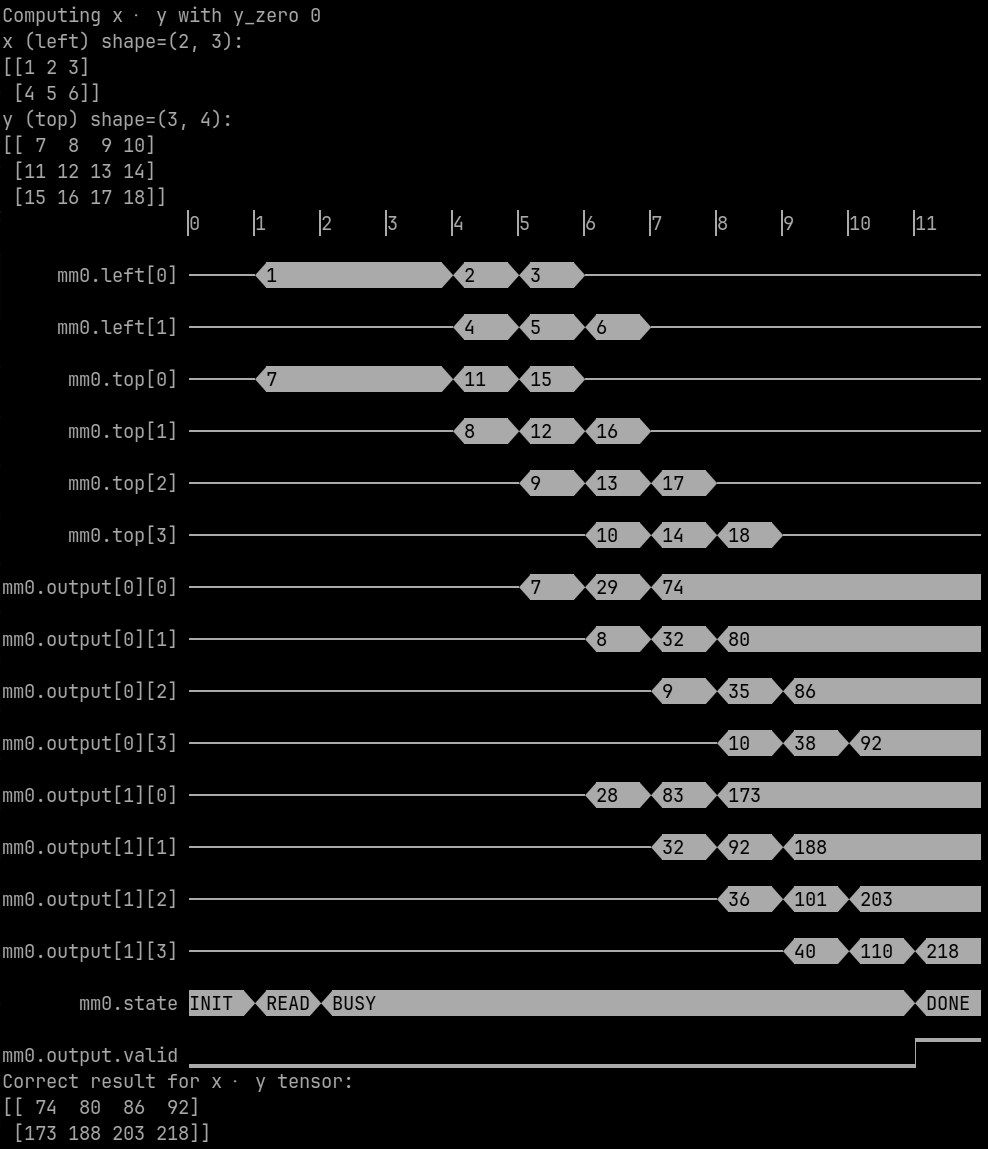
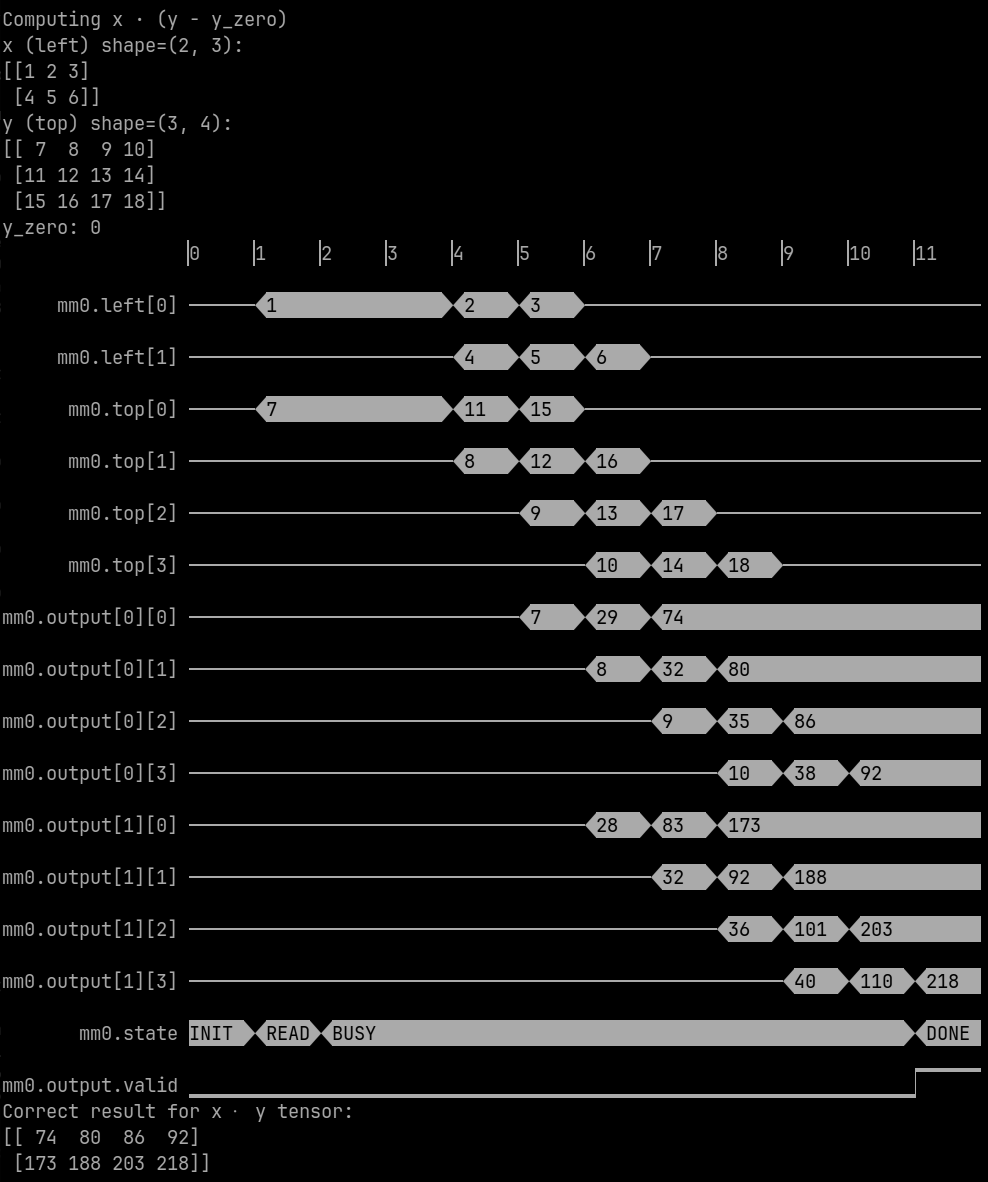
Clean up ``pyrtl_matrix.py`` demo script:
* Move some inline functions to top level.
* Simplify bracket counting logic in `_render_trace`.
* Add more comments.

diff --git a/pyrtl_matrix.py b/pyrtl_matrix.py
@@ -21,62 +21,111 @@ def _verify_tensor(name: str, expected: np.ndarray, actual: np.ndarray) -> bool:
         return False
 
 
+def _make_np_matrix(shape: tuple[int, int], start: int) -> np.ndarray:
+    """Return an integer matrix with the specified shape.
+
+    The matrix will be filled with increasing integers starting from ``start``.
+
+    """
+    num_rows, num_columns = shape
+    array = np.array(list(range(start, start + num_rows * num_columns)))
+    return np.reshape(array, newshape=shape)
+
+
+def _render_trace(sim: pyrtl.Simulation, prefixes: str):
+    """Only display traces with the maximum number of brackets.
+
+    For example, this will display ``output[1][2]``, and skip ``output[1]`` and
+    ``output``.
+
+    """
+
+    def count_brackets(name: str) -> int:
+        """Return the number of opening brackets in ``name``."""
+        return name.count("[")
+
+    def get_prefix(name: str) -> str:
+        """Return the part of ``name`` before the first opening bracket."""
+        return name.split("[")[0]
+
+    # Map from ``prefix`` to its maximum bracket count. If ``prefix`` is a matrix, this
+    # effectively returns the number of dimensions in the matrix.
+    max_bracket_count = {}
+    for full_name in sorted(sim.tracer.trace.keys()):
+        current_prefix = get_prefix(full_name)
+        current_count = count_brackets(full_name)
+
+        last_count = max_bracket_count.get(current_prefix, 0)
+        max_bracket_count[current_prefix] = max(current_count, last_count)
+
+    # Collect trace names that start with one of the desired ``prefixes``, and have the
+    # maximum number of opening brackets for that prefix.
+    trace_list = []
+    for prefix in prefixes:
+        for name in sorted(sim.tracer.trace.keys()):
+            if (
+                name.startswith(prefix)
+                and count_brackets(name) == max_bracket_count[get_prefix(name)]
+            ):
+                trace_list.append(name)
+
+    sim.tracer.render_trace(
+        trace_list=trace_list,
+        symbol_len=4,
+        repr_func=pyrtl.val_to_signed_integer,
+        repr_per_name={
+            "mm0.state": pyrtl.enum_name(pyrtl_matrix.State),
+            "mm0.counter": int,
+        },
+    )
+
+
 def main():
-    """Simulate matrix multiplication and elementwise addition (x ⋅ y + a).
+    """Simulate matrix multiplication and elementwise addition (x · (y - y_zero) + a).
 
     Do the calculations with numpy and PyRTL, and verify that the results are the same.
 
     """
-    parser = argparse.ArgumentParser(prog="systolic.py")
+    parser = argparse.ArgumentParser(prog="pyrtl_matrix.py")
     parser.add_argument("--x_shape", type=int, nargs=2, default=(2, 3))
     parser.add_argument("--x_start", type=int, default=1)
     parser.add_argument("--y_shape", type=int, default=(3, 4))
     parser.add_argument("--y_start", type=int, default=7)
+    parser.add_argument("--y_zero", type=int, default=0)
     parser.add_argument("--a_shape", type=int, nargs=2, default=(2, 4))
     parser.add_argument("--a_start", type=int, default=1)
     args = parser.parse_args()
 
-    def make_np_matrix(shape: tuple[int, int], start: int) -> np.ndarray:
-        """Return an integer matrix with the specified shape.
-
-        The matrix will be filled with increasing integers starting from ``start``.
-
-        """
-        num_rows, num_columns = shape
-        array = np.array(list(range(start, start + num_rows * num_columns)))
-        return np.reshape(array, newshape=shape)
-
-    x = make_np_matrix(args.x_shape, start=args.x_start)
-    y = make_np_matrix(args.y_shape, start=args.y_start)
-    a = make_np_matrix(args.a_shape, start=args.a_start)
+    # Create input matrices.
+    x = _make_np_matrix(args.x_shape, start=args.x_start)
+    y = _make_np_matrix(args.y_shape, start=args.y_start)
+    y_zero = args.y_zero
+    a = _make_np_matrix(args.a_shape, start=args.a_start)
 
     assert x.shape[1] == y.shape[0]
 
-    y_zero = 0
-    expected_xy = x @ (y - y_zero)
-    assert expected_xy.shape == a.shape
-
-    input_bitwidth = max(
-        [pyrtl_matrix.minimum_bitwidth(a) for a in [x, y, expected_xy]]
-    )
-    accumulator_bitwidth = 32
-
+    # Create ``matrix_y``, a ``WireMatrix2D`` whose values are stored in ``y_memblock``.
+    # The actual values for ``y_memblock`` will be provided at simulation time, via
+    # ``memory_value_map``.
+    input_bitwidth = max([pyrtl_matrix.minimum_bitwidth(a) for a in [x, y]])
     done_cycle = pyrtl_matrix.num_systolic_array_cycles(x.shape, y.shape) - 1
     counter_bitwidth = pyrtl.infer_val_and_bitwidth(done_cycle).bitwidth
-
     _, num_columns = y.shape
     y_memblock = pyrtl.MemBlock(
         addrwidth=counter_bitwidth, bitwidth=input_bitwidth * num_columns
     )
-    y_valid = pyrtl.Input(name="y_valid", bitwidth=1)
     matrix_y = WireMatrix2D(
         values=y_memblock,
         shape=y.shape,
         bitwidth=input_bitwidth,
         name="y",
-        valid=y_valid,
+        valid=True,
     )
 
+    # Build the systolic array hardware for matrix multiplication, and generate
+    # pyrtl.Outputs for the array's output. The outputs will have names like
+    # ``mm0.output[0][0]``.
+    accumulator_bitwidth = 32
     matrix_xy = pyrtl_matrix.make_systolic_array(
         name="mm0",
         a=x,
@@ -86,6 +135,10 @@ def main():
         accumulator_bitwidth=accumulator_bitwidth,
     )
     matrix_xy.make_outputs()
+
+    # Build the elementwise adder. It consumes the systolic array's output, and adds
+    # ``matrix_a`` to it, which is an array of ``pyrtl.Const``s. Generate pyrtl.Outputs
+    # for the adder's output. The outputs will have names like ``add0.output[0][0]``.
     matrix_a = WireMatrix2D(values=a, bitwidth=input_bitwidth, name="a", valid=True)
     matrix_xya = pyrtl_matrix.make_elementwise_add(
         name="add0", a=matrix_xy, b=matrix_a, output_bitwidth=accumulator_bitwidth
@@ -93,76 +146,43 @@ def main():
     matrix_xya.make_outputs()
     matrix_xya.ready <<= True
 
-    # Simulate the systolic array by providing inputs for each cycle.
+    # Provide the initial data for ``y_memblock``.
     memblock_data = pyrtl_matrix.make_input_memblock_data(
         y.transpose(), input_bitwidth, counter_bitwidth
     )
     memblock_data = dict(enumerate(memblock_data))
 
+    # Simulate the systolic array and elementwise adder until the adder's output is
+    # ``valid``.
     sim = pyrtl.Simulation(memory_value_map={y_memblock: memblock_data})
     while not sim.inspect("add0.output.valid"):
-        sim.step(provided_inputs={"y_valid": True})
+        sim.step()
 
-    # Simulation complete, print the waveform.
-    def render_trace(prefixes: str):
-        # Only show traces with the maximum number of brackets. This will display
-        # ``output[1][2]``, and skip ``output[1]`` and ``output``.
-        def count_brackets(name):
-            return name.count("[")
-
-        def strip_brackets(name):
-            return name.split("[")[0]
-
-        trace_counts = [
-            (strip_brackets(name), count_brackets(name))
-            for name in sorted(sim.tracer.trace.keys())
-        ]
-        max_brackets = {}
-        for name, count in trace_counts:
-            if name not in max_brackets:
-                max_brackets[name] = count
-            else:
-                max_brackets[name] = max(count, max_brackets[name])
-
-        trace_list = []
-        for prefix in prefixes:
-            matches = []
-            for name in sorted(sim.tracer.trace.keys()):
-                if (
-                    name.startswith(prefix)
-                    and count_brackets(name) == max_brackets[strip_brackets(name)]
-                ):
-                    matches.append(name)
-            trace_list.extend(matches)
-
-        sim.tracer.render_trace(
-            trace_list=trace_list,
-            symbol_len=4,
-            repr_func=pyrtl.val_to_signed_integer,
-            repr_per_name={
-                "mm0.state": pyrtl.enum_name(pyrtl_matrix.State),
-                "mm1.state": pyrtl.enum_name(pyrtl_matrix.State),
-                "mm0.counter": int,
-            },
-        )
-
-    print("Computing x ⋅ y with y_zero", y_zero)
+    # Print the waveform.
+    print("Computing x · (y - y_zero)")
     print(f"x (left) shape={x.shape}:\n{x}")
     print(f"y (top) shape={y.shape}:\n{y}")
-    render_trace(
+    print("y_zero:", y_zero)
+    _render_trace(
+        sim=sim,
         prefixes=[
             "mm0.left",
             "mm0.top",
             "mm0.output[",
             "mm0.state",
             "mm0.output.valid",
-        ]
+        ],
     )
 
+    # Calculate the expected value for x ⋅ (y - y_zero) with NumPy.
+    expected_xy = x @ (y - y_zero)
+    assert expected_xy.shape == a.shape
+
+    # Verify that the matrix multiplication output is correct.
     actual_xy = matrix_xy.inspect(sim=sim)
     _verify_tensor("x ⋅ y", expected_xy, actual_xy)
 
-    print("\nComputing x ⋅ y + a")
+    print("\nComputing x · (y - y_zero) + a")
     print(f"a shape={a.shape}:\n{a}\n")
 
     expected_xya = expected_xy + a

diff --git a/pyrtlnet/pyrtl_matrix.py b/pyrtlnet/pyrtl_matrix.py
@@ -2,7 +2,7 @@
 
 The operations in this module all use :class:`.WireMatrix2D` as their input and output,
 so they can be composed. See the parent directory's ``pyrtl_matrix.py`` for an example
-that computes ``x ⋅ y + a``.
+that computes ``x · (y - y_zero) + a``.
 
 WARNING: These implementations may not be completely general. They have only been tested
 in the context of dense neural networks.
@@ -371,15 +371,29 @@ def make_systolic_array(
                                                                                ┌────
         mm0.output.valid ──────────────────────────────────────────────────────┘
 
-    The systolic array's outputs can be seen on the ``mm0.output`` signals. For example,
+    The ``mm0.output`` signals show the systolic array's output matrix. For example,
     ``mm0.output[0][0]`` shows the output matrix's final top left value is ``74``, which
-    is ``1 * 7 + 2 * 11 + 3 * 15``. The result of multiplying matrices ``a` and ``b``
-    is::
+    is ``1 * 7 + 2 * 11 + 3 * 15``.
+
+    The trace shows how the systolic array multiplies and accumulates to execute this
+    matrix multiplication over time. For example, the trace for ``mm0.output[0][0]``
+    shows::
+
+         7 in cycle 5, which is 1 * 7.
+        29 in cycle 6, which is 1 * 7 + 2 * 11.
+        74 in cycle 7, which is 1 * 7 + 2 * 11 + 3 * 15.
+
+    The inputs for computing ``mm0.output[0][0]`` can be found in the ``mm0.left[0]``
+    and ``mm0.top[0]`` traces.
+
+    The expected result of multiplying matrices ``a` and ``b`` is::
 
                  ┌                 ┐
         output = │  74  80  86  92 │
                  │ 173 188 203 218 │
                  └                 ┘
+
+    And these values can be found on the right side of the ``mm0.output`` traces.
 
     """
 
